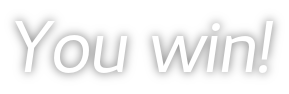
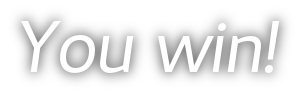
Affichage d'une image "Perdu" quand le joueur humain a possiblement perdu

Changed region(s): [[0.0623, 0.1915, 0.4671, 0.8085], [0.5294, 0.2128, 0.9654, 0.7872], [0.5294, 0.7447, 0.5606, 0.766]]

diff --git a/othello/ui/games/gameallegroui.cpp b/othello/ui/games/gameallegroui.cpp
@@ -182,7 +182,8 @@ void Allegro::loadSprites() {
 			"punBlack",
 			"case",
 			"caseInv",
-			"youWin"
+			"youWin",
+	        "youLose"
 	};
 
 	for( const auto& bmpName : bmpNames ) {
@@ -461,7 +462,10 @@ void Allegro::victory( Player* player ) {
 	allegro_gl_set_allegro_mode();
 	stretch_blit( m_bitmaps.find( "mainBg" )->second, m_page, 0, 0, m_bitmaps.find( "mainBg" )->second->w, m_bitmaps.find( "mainBg" )->second->h, 0, 0, SCREEN_W, SCREEN_H);
 	set_alpha_blender();
-	draw_trans_sprite( m_page, m_bitmaps.find( "youWin" )->second, ( SCREEN_W - m_bitmaps.find( "youWin" )->second->w ) / 2, VICTORY_PADDING );
+	if( player->getType() == Player::Type::Human )
+		draw_trans_sprite( m_page, m_bitmaps.find( "youWin" )->second, ( SCREEN_W - m_bitmaps.find( "youWin" )->second->w ) / 2, VICTORY_PADDING );
+	else
+		draw_trans_sprite( m_page, m_bitmaps.find( "youLose" )->second, ( SCREEN_W - m_bitmaps.find( "youLose" )->second->w ) / 2, VICTORY_PADDING );
 	textprintf_centre_ex( m_page, m_textFont, SCREEN_W / 2, SCREEN_H / 2, makecol( 255, 255, 255 ), -1, "Bravo %s ! Tu as gagne !", player->getName().c_str() );
 	blit( m_page, screen, 0, 0, 0, 0, SCREEN_W, SCREEN_H );
 	allegro_gl_unset_allegro_mode();
@@ -470,15 +474,15 @@ void Allegro::victory( Player* player ) {
 	m_fmod.playSoundWait( "victory" );
 	m_fmod.playMusic( "victory" );
 
-	glClear( GL_COLOR_BUFFER_BIT | GL_DEPTH_BUFFER_BIT );
-	allegro_gl_set_allegro_mode();
-	textprintf_centre_ex( m_page, m_textFont, SCREEN_W / 2, SCREEN_H - m_textFont->height - VICTORY_PADDING, makecol( 255, 255, 255 ), -1, "Continuer >" );
-	blit( m_page, screen, 0, 0, 0, 0, SCREEN_W, SCREEN_H );
-	allegro_gl_unset_allegro_mode();
-	endFrame();
-
 	before = clock() - 1;
 	for( bool loop = true; loop; ) {
+		glClear( GL_COLOR_BUFFER_BIT | GL_DEPTH_BUFFER_BIT );
+		allegro_gl_set_allegro_mode();
+		textprintf_centre_ex( m_page, m_textFont, SCREEN_W / 2, SCREEN_H - m_textFont->height - VICTORY_PADDING, makecol( 255, 255, 255 ), -1, "Continuer >" );
+		blit( m_page, screen, 0, 0, 0, 0, SCREEN_W, SCREEN_H );
+		allegro_gl_unset_allegro_mode();
+		endFrame();
+
 		if( mouseL )
 			loop = false;
 		mouseL = (bool) ( mouse_b & 1 );
